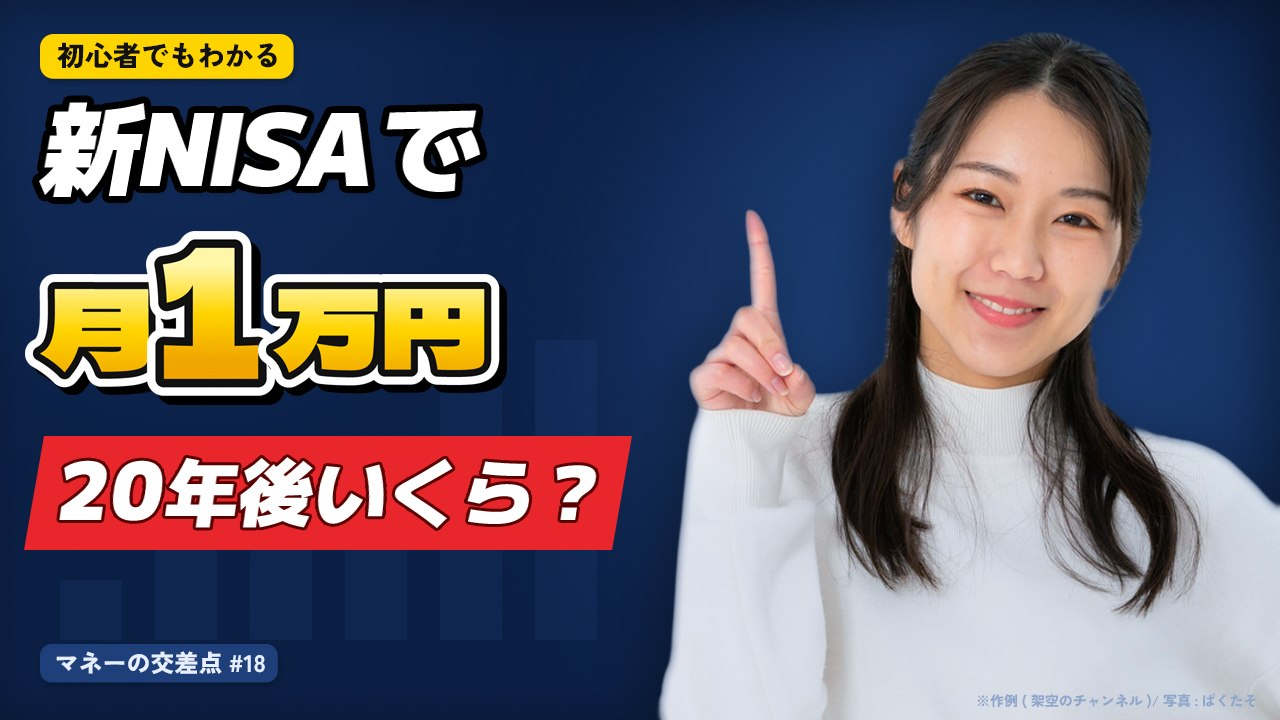
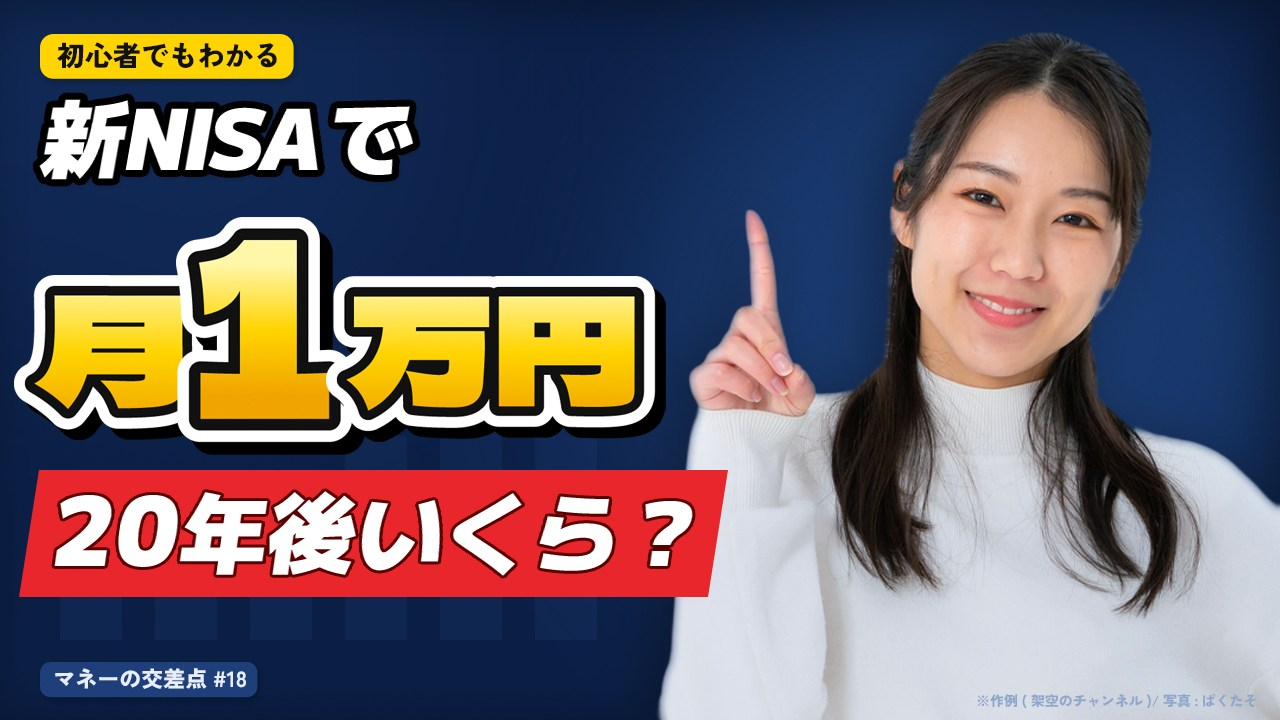
Swap the 11 remade pieces into the site, PDF and CrowdWorks v2 folder (not published yet); fixed Codex prompts for defect checks and material generation wired into the designer skill

Changed region(s): [[0.0, 0.1222, 0.5938, 0.8556], [0.0312, 0.8861, 0.2188, 0.9778]]

diff --git a/index.html b/index.html
@@ -359,11 +359,11 @@ html.noanim .reveal{ opacity:1; transform:none; transition:none; }
       <article class="work" data-cat="yt"><button class="pic" type="button"><img src="img/money2.jpg" alt="お金の解説のサムネイル。「新NISAで月1万円」「20年後いくら？」の文字と、指を立てる女性" loading="lazy"></button>
         <div class="cap"><span class="tag">MONEY</span><h3>お金の解説</h3><p>「月1万円」を一番大きく、クリックの理由になる「20年後いくら？」を赤い帯に。人物の輪郭は背景の紺になじませました。</p><a class="to-ba" href="#before-after" data-ba-go="1">修正のポイントを見る →</a></div></article>
       <article class="work" data-cat="yt"><button class="pic" type="button"><img src="img/beauty2.jpg" alt="美容のサムネイル。すっぴんとメイク後の比べと「10分で血色メイク」の文字" loading="lazy"></button>
-        <div class="cap"><span class="tag">BEAUTY</span><h3>すっぴん → メイク後</h3><p>左右で目の高さをそろえて比べやすく。「血色メイク」の変化が、頬と唇で見てわかるようにしました。</p></div></article>
+        <div class="cap"><span class="tag">BEAUTY</span><h3>すっぴん → メイク後</h3><p>メイク後を大きく、すっぴんを小さく。仕上がりの顔には文字を重ねず、「血色メイク」の変化が頬と唇で見てわかるようにしました。</p></div></article>
       <article class="work" data-cat="yt"><button class="pic" type="button"><img src="img/love2.jpg" alt="恋愛トークのサムネイル。照れ笑いの女性と「脈ありサイン TOP5」「LINEの即レス、何位？」の文字" loading="lazy"></button>
         <div class="cap"><span class="tag">TALK</span><h3>恋愛トーク</h3><p>「LINEの即レス、何位？」の問いを主見出しのすぐ上に。写真は切り抜かず、壁の質感をそのまま残しています。</p><a class="to-ba" href="#before-after" data-ba-go="2">修正のポイントを見る →</a></div></article>
-      <article class="work" data-cat="yt"><button class="pic" type="button"><img src="img/travel2.jpg" alt="旅行VLOGのサムネイル。紅葉の石段と山門の写真2枚と「朝7時、誰もいない大原へ」の文字" loading="lazy"></button>
-        <div class="cap"><span class="tag">VLOG</span><h3>旅行VLOG</h3><p>写真2枚で旅先の空気を。文字は少なく小さく、「誰もいない」で続きが気になる一言にしました。</p></div></article>
+      <article class="work" data-cat="yt"><button class="pic" type="button"><img src="img/travel2.jpg" alt="旅行VLOGのサムネイル。紅葉の山門の写真と「7:00am」「OHARA」「朝7時、誰もいない大原へ。」の文字" loading="lazy"></button>
+        <div class="cap"><span class="tag">VLOG</span><h3>旅行VLOG</h3><p>山門の写真1枚を大きく。上の葉をやわらげて文字の場所をつくり、「誰もいない」で続きが気になる一言にしました。</p></div></article>
       <article class="work" data-cat="yt"><button class="pic" type="button"><img src="img/life2.jpg" alt="暮らしのサムネイル。透明の引き出しを開ける手元と「100均収納 一年後も使ってる 12選」の文字" loading="lazy"></button>
         <div class="cap"><span class="tag">LIFE</span><h3>暮らし・100均</h3><p>紹介する1品を使っている様子を大きく。「一年後も使ってる」で、ほかの紹介動画との違いを出しました。</p></div></article>
 
@@ -569,9 +569,9 @@ html.noanim .reveal{ opacity:1; transform:none; transition:none; }
 
   // 修正前・修正後
   var BA = [
-    {t:'ゲーム実況サムネイル', b:'img/game-before.jpg', a:'img/game.jpg', c:[['文字がボスの顔を隠していた','文字を動かして、ボスの目と牙が見えるようにした'],['誰の実況かが伝わらなかった','実況者のリアクションと吹き出しを入れた'],['企画内容が2か所に分かれていた','「ボス10連戦」を1行の帯にまとめた']]},
-    {t:'お金の解説サムネイル', b:'img/money2-before.jpg', a:'img/money2.jpg', c:[['「新 NISA で」「20 年後」の数字・英字の前後に空きがあり、言葉が切れて見えた','文字を分けて並べ直し、ひとまとまりで読めるようにした'],['切り抜いた人物の髪の縁が白っぽく浮いていた','縁の白さを取り、背景の紺で沈めてなじませた'],['指先と見出しが離れていた','人物を見出し側に寄せ、指が「1」を指すようにした']]},
-    {t:'恋愛トークサムネイル', b:'img/love2-before.jpg', a:'img/love2.jpg', c:[['問いの札が左上にあり、見出しと離れていた','札を主見出しのすぐ上に移し、問いを「LINEの即レス、何位？」と具体的にした'],['人物を切り抜いて作った背景に置いたため、合成の感じが出ていた','切り抜かずに、写真の壁をそのまま背景にした'],['見出しが下の端に近く窮屈だった','見出しを少し小さくして、下に余白をとった']]}
+    {t:'ゲーム実況サムネイル', b:'img/game-before.jpg', a:'img/game.jpg', c:[['文字がボスの顔を隠していた','文字を動かして、ボスの目と牙が見えるようにした'],['誰の実況かが伝わらなかった','実況者のリアクションと吹き出しを入れた'],['企画内容が2か所に分かれていた','「ボス10連戦」を1行の帯にまとめた'],['主役の言葉と実況者が小さく、一覧で弱かった','「全クリ!?」と実況者の顔を大きくした']]},
+    {t:'お金の解説サムネイル', b:'img/money2-before.jpg', a:'img/money2.jpg', c:[['「新 NISA で」「20 年後」の数字・英字の前後に空きがあり、言葉が切れて見えた','文字を分けて並べ直し、ひとまとまりで読めるようにした'],['切り抜いた人物の髪の縁が白っぽく浮いていた','縁の白さを取り、背景の紺で沈めてなじませた'],['指先と見出しが離れていた','人物を見出し側に寄せ、指が「1」を指すようにした'],['主役の「月1万円」が小さかった','画面の高さの約3割まで大きくした']]},
+    {t:'恋愛トークサムネイル', b:'img/love2-before.jpg', a:'img/love2.jpg', c:[['問いの札が左上にあり、見出しと離れていた','札を主見出しのすぐ上に移し、問いを「LINEの即レス、何位？」と具体的にした'],['人物を切り抜いて作った背景に置いたため、合成の感じが出ていた','切り抜かずに、写真の壁をそのまま背景にした'],['主役の「脈ありサイン」が一覧で小さかった','字間を詰めて、ひとまわり大きくした']]}
   ];
   var slider = document.getElementById('slider'), range = slider.querySelector('input');
   range.addEventListener('input', function(){ slider.style.setProperty('--pos', range.value + '%'); });
